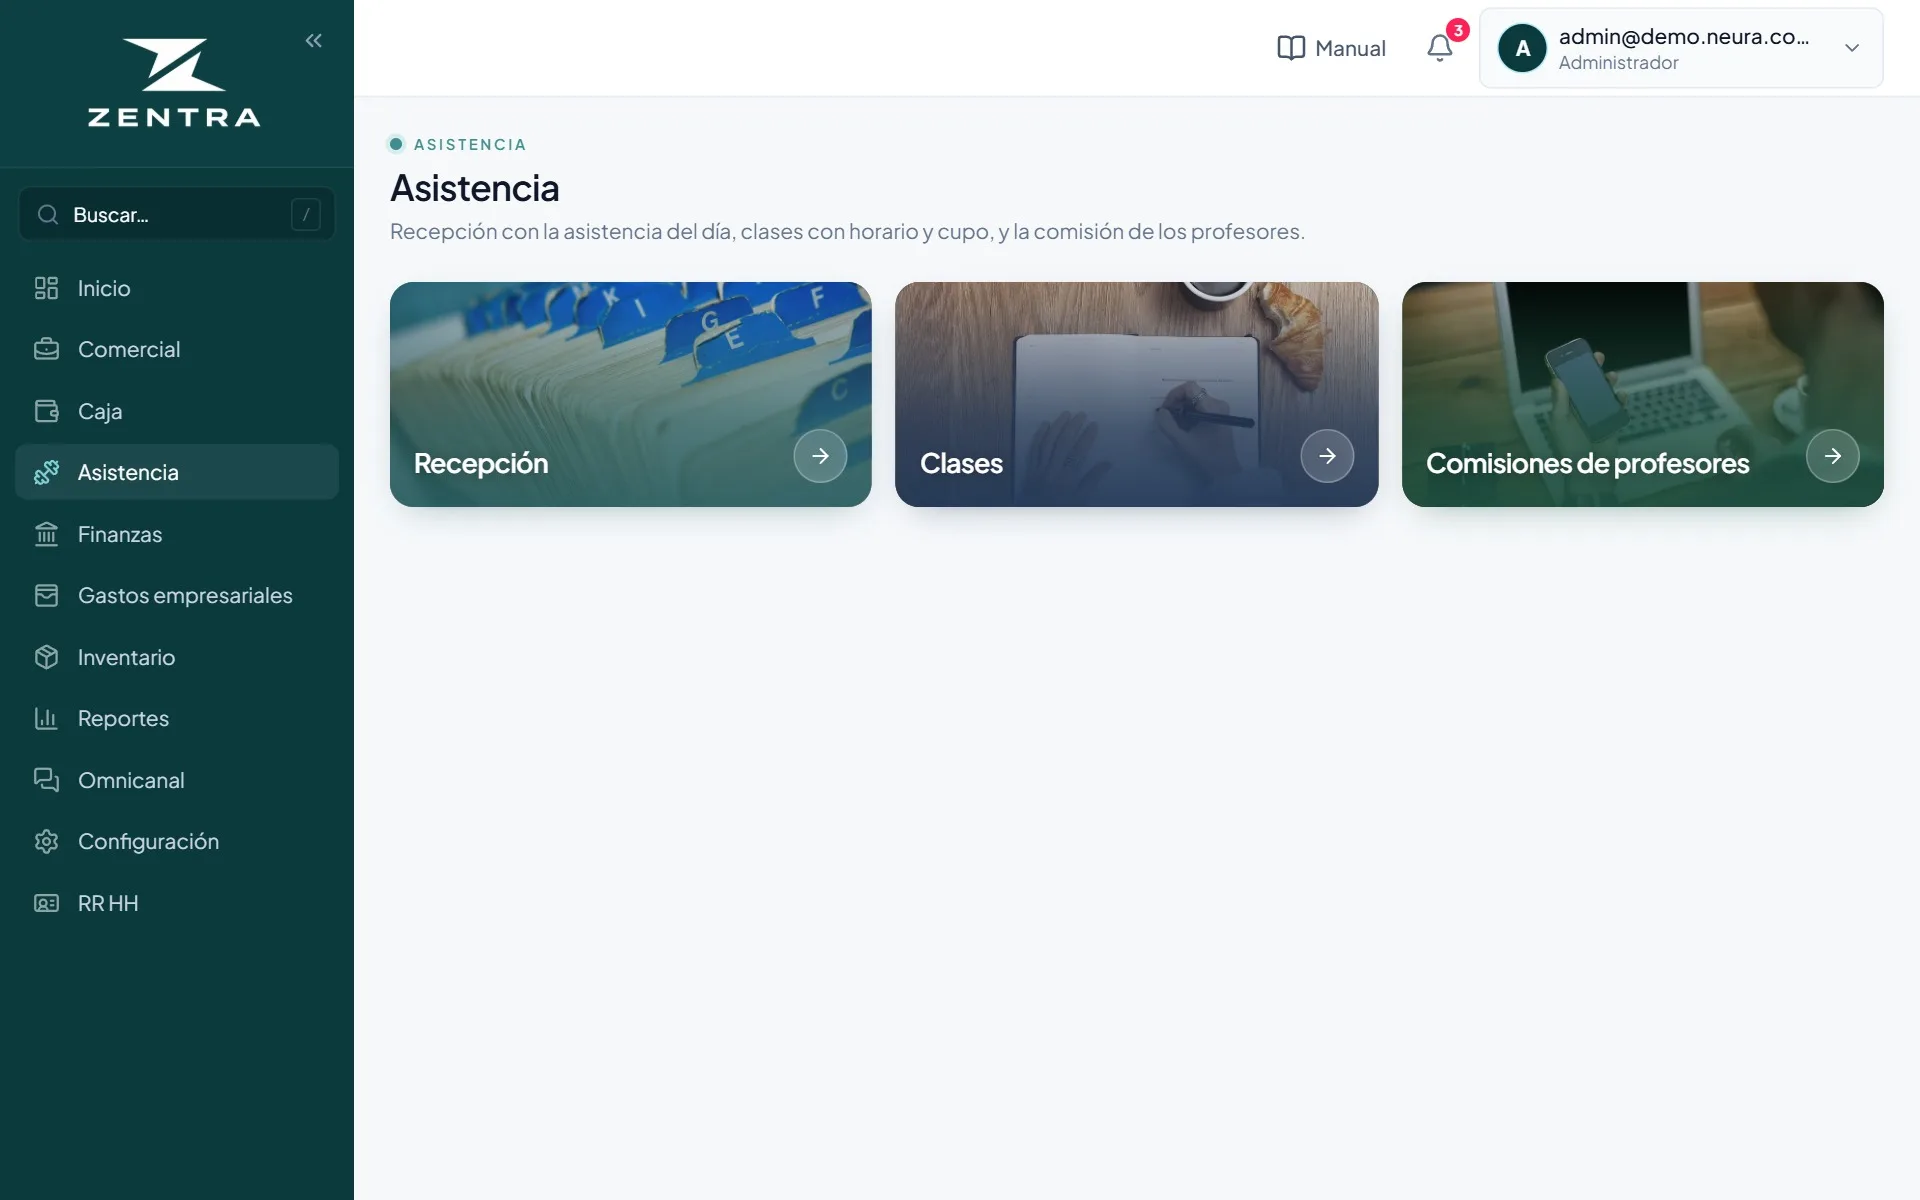
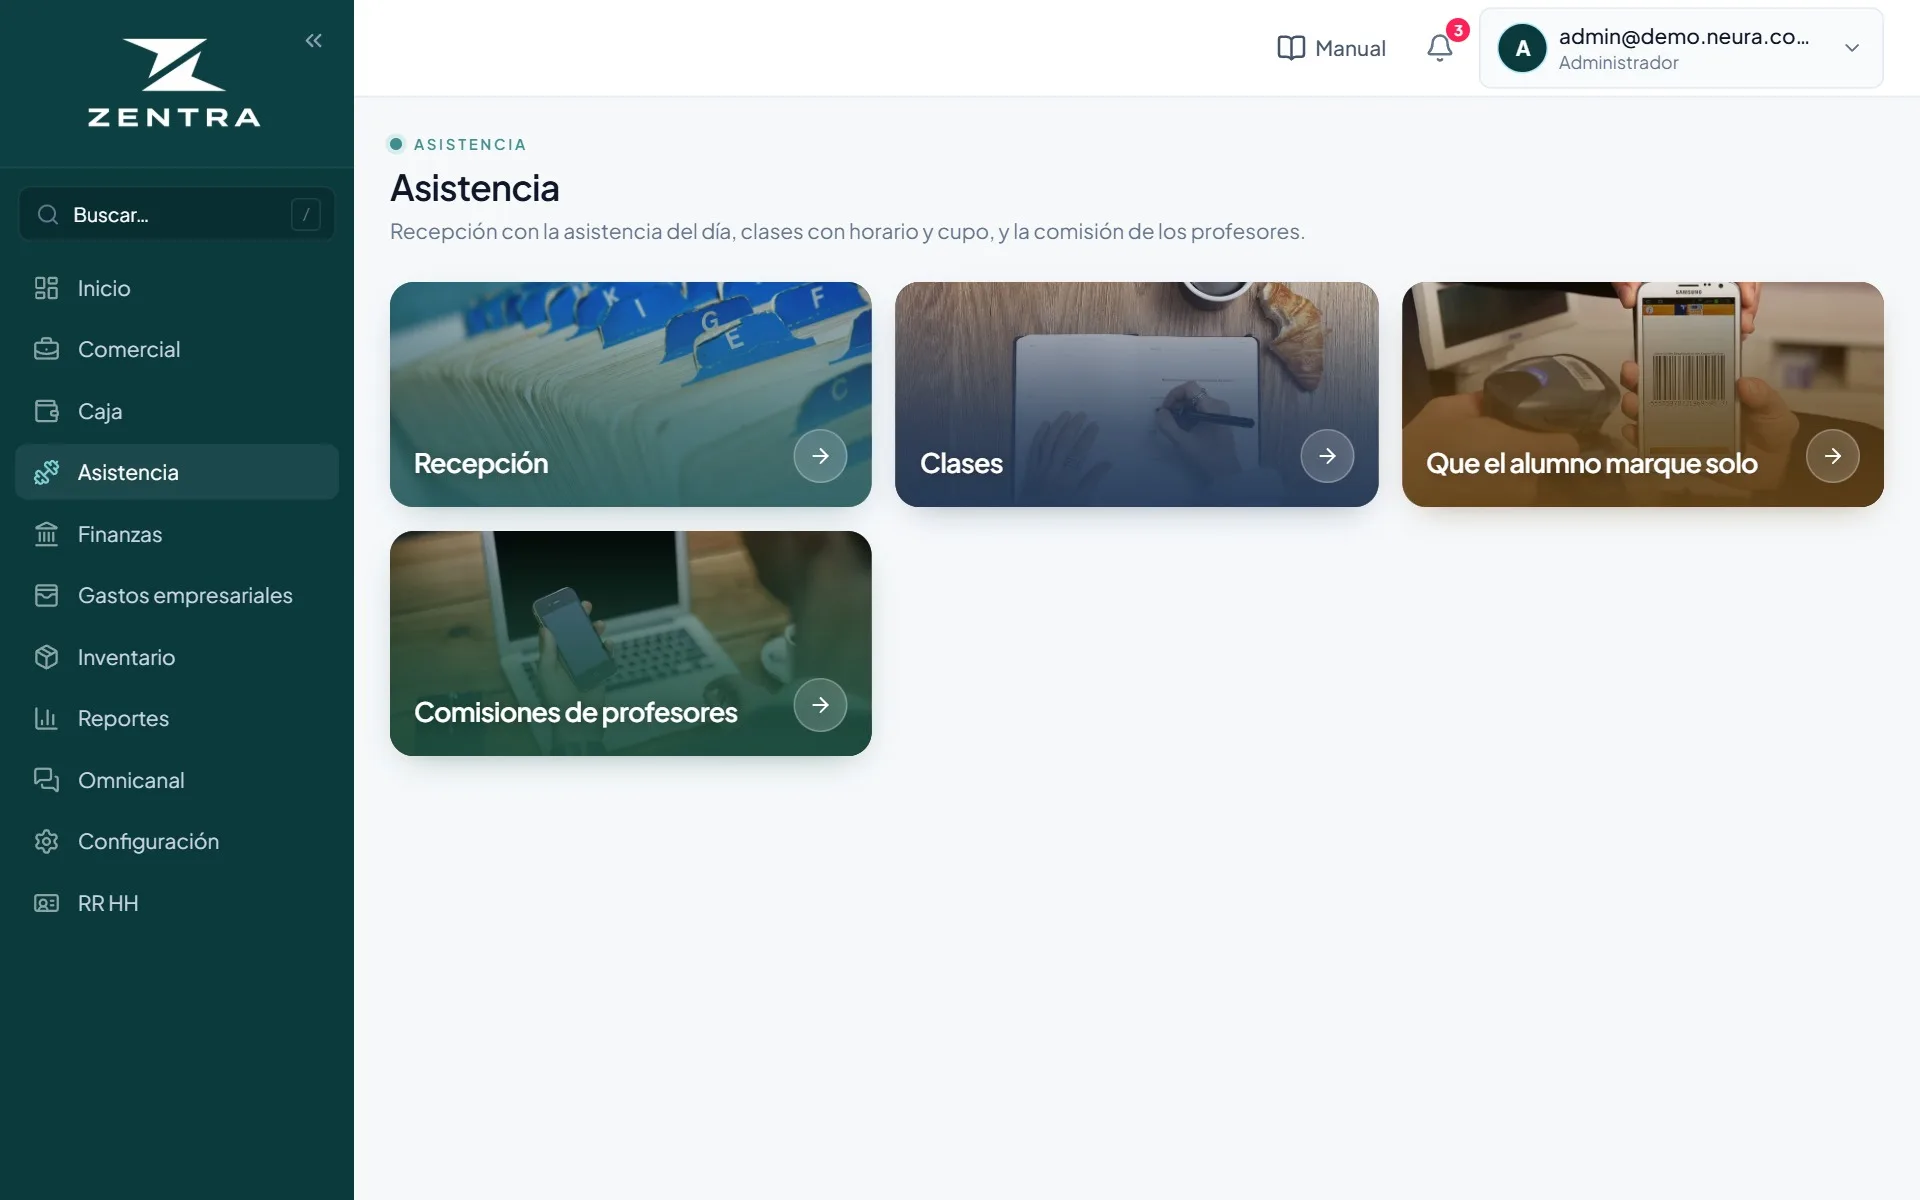
docs(2.0/asistencia): guia Que el alumno marque solo y ajustes vistos en pantalla
Guia del manual con capturas (QR, PIN del alumno, pagina del alumno). Botones del link sin
partirse en dos lineas y el PIN sin letras espaciadas.

Changed region(s): [[0.1875, 0.4317, 0.4688, 0.6475], [0.7188, 0.2158, 1.0, 0.4317]]

diff --git a/src/modules/manual/contenido.ts b/src/modules/manual/contenido.ts
@@ -53,7 +53,7 @@ export const LLEGAR: Record<string, [string, string?]> = {
   "inmo-avisos": ["Inmobiliaria", "Propiedades"], "inmo-planes": ["Configuración", "Planes de cuotas y mora"],
   "gim-clase": ["Asistencia", "Clases"], "gim-reglas": ["Asistencia", "Clases"], "gim-membresia": ["Comercial", "Planes"],
   "gim-alumno": ["Asistencia", "Recepción"], "gim-asistencia": ["Asistencia", "Recepción"], "gim-turno": ["Asistencia", "Recepción"],
-  "gim-comisiones": ["Asistencia", "Comisiones de profesores"],
+  "gim-comisiones": ["Asistencia", "Comisiones de profesores"], "gim-autoasistencia": ["Asistencia", "Que el alumno marque solo"],
 };
 /** La captura del panel que abre cada sección del menú. */
 export const PANELES: Record<string, string> = {
@@ -1179,6 +1179,22 @@ export const GUIAS: Guia[] = [
     ],
   },
   {
+    id: "gim-autoasistencia", grupo: "Asistencia", rubro: "gimnasio", ruta: "/gimnasio/autoasistencia", titulo: "Que el alumno marque solo", resumen: "Un QR en la entrada: el alumno marca su llegada con su CI y su PIN.",
+    bloques: [
+      { img: "gim-autoasistencia", alt: "Link y QR de asistencia", pasos: [
+        { t: "Tocá Imprimir QR y pegalo en la entrada.", d: "Sale una hoja con el QR grande y los pasos para el alumno.", marca: "Imprimir QR" },
+        { t: "O mandá el link por WhatsApp con Compartir.", marca: "Compartir" },
+      ] },
+      { img: "gim-pin", alt: "PIN del alumno", texto: "Cada alumno necesita su PIN. En Recepción buscalo.", pasos: [
+        { t: "Tocá Crear PIN y dáselo al alumno.", d: "Son 4 números y se ven una sola vez. Si se lo olvida, tocá Cambiar PIN.", marca: "Crear PIN" },
+      ] },
+      { img: "gim-link", alt: "Lo que ve el alumno", pasos: [
+        { t: "El alumno escanea el QR y pone su cédula.", marca: "Tu cédula" },
+        { t: "Pone su PIN y toca Entrar.", d: "Después toca Llegué en su clase, o Entrada libre. Ya cuenta como asistencia.", marca: "Entrar" },
+      ] },
+      { ojo: "Si tiene una cuota vencida no puede marcar: le pide pasar por recepción." },
+    ],
+  },  {
     id: "gim-comisiones", grupo: "Asistencia", rubro: "gimnasio", ruta: "/gimnasio/comisiones", titulo: "Comisión de los profesores", resumen: "Elegir cómo se paga y ver cuánto le toca a cada uno.",
     bloques: [
       { img: "gim-comisiones", alt: "Comisiones de profesores", pasos: [

diff --git a/src/app/(app)/gimnasio/autoasistencia/page.tsx b/src/app/(app)/gimnasio/autoasistencia/page.tsx
@@ -74,7 +74,7 @@ ol{display:inline-block;text-align:left;font-size:20px;line-height:1.7;color:#1e
             <p className="w-full break-all rounded-lg bg-slate-50 px-3 py-2 text-center text-xs text-slate-500">{link}</p>
           </section>
           <section className="space-y-4 rounded-2xl border border-slate-200 bg-white p-5">
-            <div className="grid gap-2 sm:grid-cols-3">
+            <div className="flex flex-col gap-2 sm:flex-row sm:flex-wrap [&>button]:whitespace-nowrap sm:[&>button]:flex-1">
               <button type="button" onClick={() => void copiar()} className={`${BOTON_SECUNDARIO} min-h-11`}>{copiado ? <Check className="h-4 w-4 text-emerald-600" /> : <Copy className="h-4 w-4" />} {copiado ? "Copiado" : "Copiar link"}</button>
               <button type="button" onClick={() => void compartir()} className={`${BOTON_SECUNDARIO} min-h-11`}><Share2 className="h-4 w-4" /> Compartir</button>
               <button type="button" disabled={!svg} onClick={imprimir} className={`${BOTON_PRIMARIO} min-h-11 bg-[var(--brand)]`}><Printer className="h-4 w-4" /> Imprimir QR</button>

diff --git a/src/app/a/[token]/MarcarAsistencia.tsx b/src/app/a/[token]/MarcarAsistencia.tsx
@@ -132,7 +132,7 @@ export function MarcarAsistencia({ token, empresa, color }: { token: string; emp
             </label>
             <label className="block">
               <span className="mb-1.5 block text-sm font-medium text-slate-600">Tu PIN</span>
-              <input value={pin} onChange={(e) => setPin(e.target.value.replace(/\D/g, "").slice(0, 4))} inputMode="numeric" type="password" autoComplete="off" placeholder="4 números" className={`${INPUT} tracking-[0.4em]`} />
+              <input value={pin} onChange={(e) => setPin(e.target.value.replace(/\D/g, "").slice(0, 4))} inputMode="numeric" type="password" autoComplete="off" placeholder="4 números" className={INPUT} />
             </label>
             <button type="submit" disabled={!!ocupado || ci.replace(/\D/g, "").length < 4 || pin.length !== 4}
               className="inline-flex min-h-14 w-full items-center justify-center gap-2 rounded-2xl bg-[var(--brand)] text-lg font-semibold text-white disabled:opacity-40">
